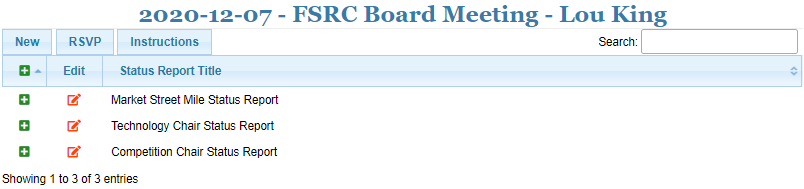
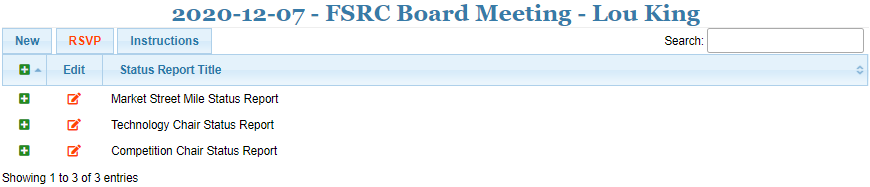
My Status Report view: RSVP button is orangered if rsvp has not had response (#304)

diff --git a/members/static/admin/beforedatatables.js b/members/static/admin/beforedatatables.js
@@ -350,9 +350,15 @@ function mystatus_rsvp(url) {
                                     inputs.each(function() {
                                         formfields[$(this).attr('name')] = $(this).val();
                                     });
+                                    // post and handle acknowledgement
                                     var post = $.post(url, formfields, function(data, textStatus, jqXHR) {
                                         if (textStatus === "success") {
                                             if (data.status === "success") {
+                                                // need to remove no response indicator from button, unless they hit
+                                                // save without changing anything
+                                                if (formfields.response != 'response pending') {
+                                                    $('.rsvp-noresponse').removeClass('rsvp-noresponse');
+                                                }
                                                 form.dialog('close');
                                             } else {
                                                 formerror.text(data.error);

diff --git a/members/static/admin/style.css b/members/static/admin/style.css
@@ -108,3 +108,8 @@ td.view-control {
     /* same as jquery-ui-theme.css ui_state_default */
     color: #2779aa;
 }
+
+/* rsvp management */
+.rsvp-noresponse {
+    color: orangered;
+}

diff --git a/members/views/admin/meetings_member.py b/members/views/admin/meetings_member.py
@@ -254,6 +254,9 @@ def memberstatusreport_buttons():
         invite = Invite.query.filter_by(invitekey=request.args['invitekey']).one()
         meeting = invite.meeting
         today = date.today()
+    rsvpclass = ''
+    if invite.response == INVITE_RESPONSE_NO_RESPONSE:
+        rsvpclass = 'rsvp-noresponse'
     if invitekey and meeting.date >= today:
         buttons = [
             {'text': 'New',
@@ -261,6 +264,7 @@ def memberstatusreport_buttons():
              },
             {'extend': 'editChildRowRefresh', 'editor':{'eval': 'editor'}, 'className': 'Hidden'},
             {'text': 'RSVP',
+             'className': rsvpclass,
              'action': {
                  'eval': 'mystatus_rsvp("{}?invitekey={}")'.format(rest_url_for('admin._mymeetingrsvp',
                                                                                 interest=g.interest),

diff --git a/docs/meetings-member-guide.rst b/docs/meetings-member-guide.rst
@@ -77,6 +77,10 @@ My Status Report view
 You will see a table similar to the following, with a button for your :term:`RSVP <rsvp>` and a row for each of your
 :term:`position` based :term:`status reports <status report>`.
 
+If the RSVP button is orange-red, that means the RSVP hasn't been indicated.
+
+If the edit icon on a row is orange-red (|icon-edit-orangered|), that means the status report hasn't been entered.
+
 .. image:: images/my-status-report-view.*
     :align: center
 
